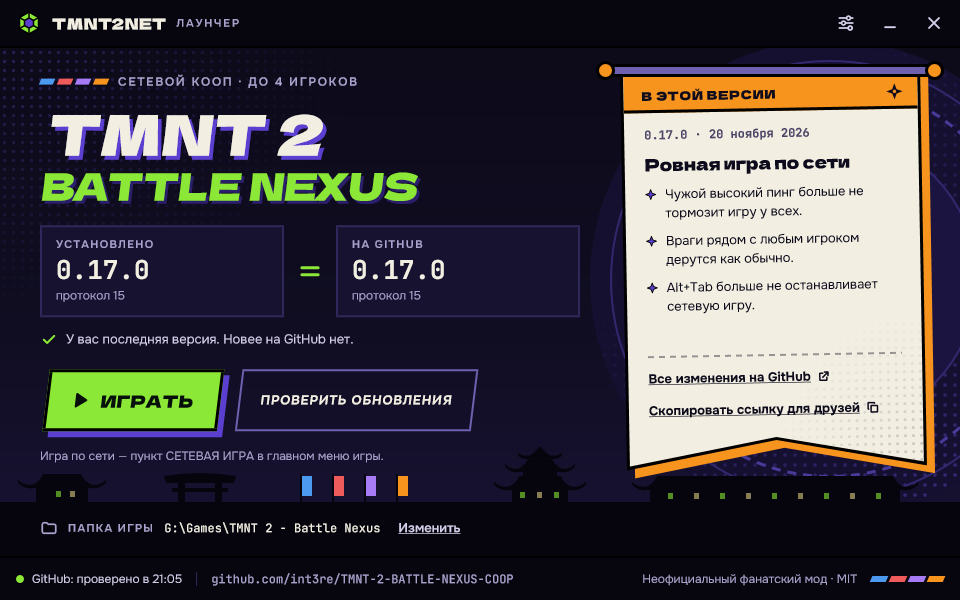
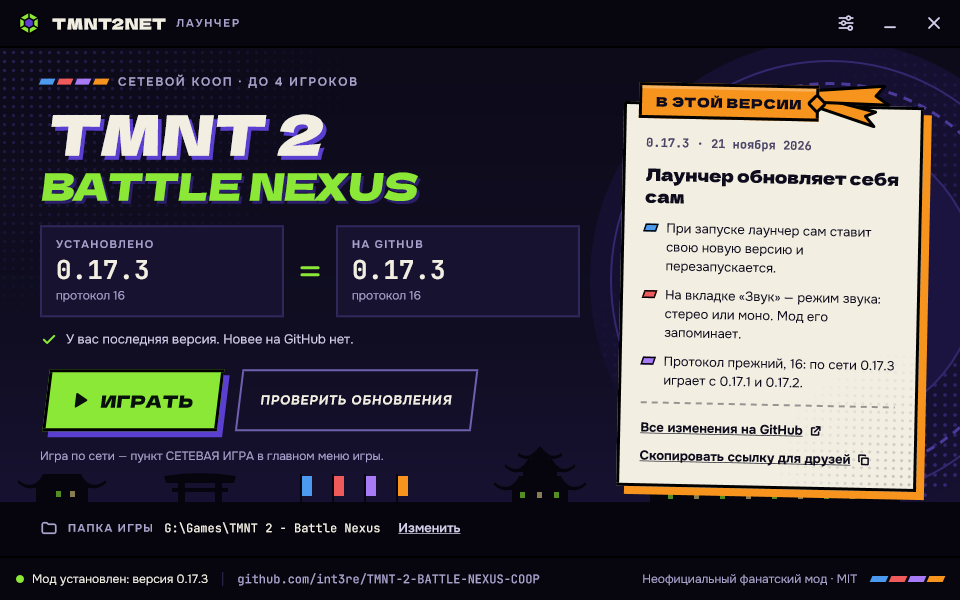
Launcher 1.3.1: the news on a sheet of paper with its heading on a bandana
The hanging banner gives way to the news sheet of the first game's launcher, in this one's colours: paper a
little askew with a shadow in the accent, as tall as what it says; its heading on a bandana tied at the top
edge - a band in the accent (the bandana chosen in the settings), a knot, two loose ends; the notes marked
with strips in the four turtles' colours. The mod inside is the same 0.17.3.

The README's pictures of the launcher are drawn again.

diff --git a/src/launcher/view.cpp b/src/launcher/view.cpp
@@ -1,5 +1,6 @@
 // The launcher's picture: every screen of the design, drawn from the model. Sizes and colours are the
-// design's (a 960 x 600 window: header 48, body 508, footer 44).
+// design's (a 960 x 600 window: header 48, body 508, footer 44). The news sheet with its bandana is the
+// one of the first game's launcher, in this one's colours.
 #include <algorithm>
 #include <cmath>
 
@@ -53,9 +54,9 @@ const char kNunchaku[] = "M5 20l3-9M19 20l-3-9M8 11c0-6 8-6 8 0";
 const char kShellOuter[] = "M14 2l10.4 6v12L14 26 3.6 20V8Z";
 const char kShellInner[] = "M14 8.5l4.8 2.75v5.5L14 19.5l-4.8-2.75v-5.5Z";
 const char kShellLines[] = "M14 8.5V2M18.8 11.25L24.4 8M18.8 16.75L24.4 20M14 19.5V26M9.2 16.75L3.6 20M9.2 11.25L3.6 8";
-// stars: 20 x 20 and 12 x 12
-const char kShuriken[] = "M10 1l2.4 6.6L19 10l-6.6 2.4L10 19l-2.4-6.6L1 10l6.6-2.4Z";
-const char kStar[] = "M6 0.6l1.5 3.9L11.4 6 7.5 7.5 6 11.4 4.5 7.5 0.6 6l3.9-1.5Z";
+// a bandana's two loose ends, in a 56 x 32 box: they fly off to the right of the knot at 2, 12
+const char kBandanaLow[] = "M2 10L44 20l-7 3 6 7L2 17Z";
+const char kBandanaHigh[] = "M2 6l48-4-6 7 9 6L2 14Z";
 // the arena under the window's bottom edge, in a 960 x 110 box
 const char kPavilionRoof[] = "M18 34Q26 41 34 38Q40 35 43 28H81Q84 35 90 38Q98 41 106 34V37Q98 44 90 42H34Q26 44 18 37Z";
 const char kTorii[] = "M164 30Q200 24 236 30L234 37H166Z";
@@ -691,94 +692,103 @@ void downloading(Ctx& x, float top) {
          T(12), left, y, MUTED, note);
 }
 
-void banner(Ctx& x, const Vals& v) {
+// The news: a sheet of paper, a little askew, with its heading on a bandana tied at the sheet's top - the
+// band in the launcher's accent (the bandana the player chose), its two ends flying off to the right. Each
+// note is marked with a strip of a bandana, the four turtles' colours in turn. The sheet is as tall as
+// what it says.
+void paper(Ctx& x, const Vals& v) {
   Canvas& c = x.c;
   const Model& m = x.m;
-  const float L = 620, Tp = 70, R = 920, B = 468;
-  c.push(Matrix::Rotation(-1, D2D1::Point2F((L + R) / 2, Tp)));
-  auto cloth = [](float l, float t, float r, float b, float notch, D2D1_POINT_2F* p) {
-    p[0] = {l, t};
-    p[1] = {r, t};
-    p[2] = {r, b};
-    p[3] = {(l + r) / 2, b - notch};
-    p[4] = {l, b};
-  };
-  D2D1_POINT_2F p[5];
-  cloth(L + 8, Tp + 8, R + 8, B + 8, 28, p);
-  c.poly(p, 5, x.accent);
-  cloth(L, Tp, R, B, 28, p);
-  c.poly(p, 5, BLACK);
-  const float l = L + 3, t = Tp + 3, r = R - 3, b = B - 4;
-  cloth(l, t, r, b, 27, p);
-  c.poly(p, 5, PAPER);
-  c.clip_poly(p, 5);
-  for (int j = 0; j < 19; ++j)
-    for (int i = 0; i < 19; ++i) {
-      float px = r - 150 + 4 + 8 * i, py = b - 150 + 4 + 8 * j;
-      float d = std::sqrt((r - px) * (r - px) + (b - py) * (b - py)) / 212.0f;
-      float a = clamp01(1 - d / 0.72f);
-      if (a > 0.01f) c.ellipse(px, py, 1.6f, 1.6f, PINK, 0.2f * a);
-    }
-  c.fill(l, t, r - l, 38, x.accent);
-  c.fill(l, t + 35, r - l, 3, BLACK);
-  c.unclip();
-  c.text_mid(v.tab, D(12, 0.06f), l + 18, t + 6 + (35 - 6) / 2.0f, PINK);
-  c.icon(kShuriken, r - 14 - 18, t + 6 + (35 - 6) / 2.0f - 9, 18, PINK, 0, 20, true);
-  c.ellipse(r - 14 - 9, t + 6 + (35 - 6) / 2.0f, 1.8f, 1.8f, x.accent);
-  // the words
-  const float tx = l + 20, tw = (r - l) - 40;
-  float y = t + 38 + 14;
-  y += c.text(v.meta, Mo(12, 700), tx, y, 0x4A4466) + 10;
+  const float L = 620, W = 300, top = 48 + 26 + 30, limit = kH - 44 - 22;  // the sheet; its bottom goes no lower
+  const float tx = L + 3 + 20, tw = W - 2 * (3 + 20);
+  Font meta_f = Mo(12, 700), title_f = D(17), item_f = T(13), link_f = T(13, 700);
   TextOpt head;
   head.wrap = true;
   head.max_w = tw;
   head.line_h = 17 * 1.3f;
-  y += c.text(v.title, D(17), tx, y, PINK, head) + 10;
-  const float bottom = b - 40;
-  const float links_h = 2.0f + 6 + 30 + (v.copy ? 2.0f + 30 : 0.0f);
+  const float mark_w = 13, mark_gap = 9;
   TextOpt item;
   item.wrap = true;
-  item.max_w = tw - 11 - 9;
+  item.max_w = tw - mark_w - mark_gap;
   item.line_h = 13 * 1.45f;
-  for (const std::wstring& s : v.items) {
-    float h = c.measure(s, T(13), item).height;
-    if (y + h > bottom - links_h - 6) break;  // (a long list: what does not fit is on GitHub)
-    c.icon(kStar, tx, y + 4, 11, VIOLET, 0, 12, true);
-    c.push(Matrix::Scale(11.0f / 12, 11.0f / 12) * Matrix::Translation(tx, y + 4));
-    c.stroke_path(kStar, 1, BLACK);
-    c.pop();
-    c.text(s, T(13), tx + 11 + 9, y, PINK, item);
-    y += h + 9;
+  // how much of the list there is room for (a long list: what does not fit is on GitHub)
+  const float below = 12 + 2 + 10 + 28 + (v.copy ? 28.0f : 0.0f) + 14 + 3;  // the line, the links, the edge
+  float h = 3 + 30 + c.line_h(meta_f) + 12 + c.measure(v.title, title_f, head).height + 12;
+  size_t shown = 0;
+  for (; shown < v.items.size(); ++shown) {
+    const float ih = c.measure(v.items[shown], item_f, item).height + (shown ? 10.0f : 0.0f);
+    if (top + h + ih + below > limit) break;
+    h += ih;
   }
-  // the links, at the bottom
-  float ly = bottom - links_h;
-  c.dashed_h(tx, ly, tw, 2, 6, 5, PINK, 0.4f);
-  ly += 2 + 6;
-  Font lf = T(13, 700);
+  h += below;
+
+  c.push(Matrix::Rotation(1.2f, D2D1::Point2F(L + W / 2, top + h / 2)));
+  c.fill(L + 8, top + 8, W, h, x.accent);
+  c.box(L, top, W, h, PAPER, 3, BLACK);
+  // dots thickening to the sheet's lower right corner
+  const float r = L + W - 3, b = top + h - 3;
+  for (int j = 0; j < 17; ++j)
+    for (int i = 0; i < 17; ++i) {
+      const float px = r - 136 + 4 + 8 * i, py = b - 136 + 4 + 8 * j;
+      if (py < top + 6) continue;
+      const float d = std::sqrt((r - px) * (r - px) + (b - py) * (b - py)) / 198.0f;
+      const float al = clamp01(1 - d / 0.72f);
+      if (al > 0.01f) c.ellipse(px, py, 1.6f, 1.6f, PINK, 0.22f * al);
+    }
+  // the words
+  float y = top + 3 + 30;
+  y += c.text(v.meta, meta_f, tx, y, 0x4A4466) + 12;
+  y += c.text(v.title, title_f, tx, y, PINK, head) + 12;
+  for (size_t i = 0; i < shown; ++i) {
+    if (i) y += 10;
+    c.push(Matrix::Skew(-18, 0, D2D1::Point2F(tx + mark_w / 2, y + 9)));
+    c.box(tx, y + 5, mark_w, 8, kBandana[i & 3], 1.5f, BLACK);
+    c.pop();
+    y += c.text(v.items[i], item_f, tx + mark_w + mark_gap, y, PINK, item);
+  }
+  y += 12;
+  c.dashed_h(tx, y, tw, 2, 6, 5, PINK, 0.4f);
+  y += 2 + 10;
+  // the links
   TextOpt under;
   under.underline = true;
-  float lw = c.measure(v.link, lf).width;
+  float lw = c.measure(v.link, link_f).width;
   bool hover = m.hover == H_PaperLink;
-  c.text_mid(v.link, lf, tx, ly + 15, hover ? VIOLET : PINK, under);
-  c.icon(kExternal, tx + lw + 6, ly + 8, 14, hover ? VIOLET : PINK, 2.6f);
-  hit(x, H_PaperLink, tx, ly, lw + 6 + 14, 30);
+  c.text_mid(v.link, link_f, tx, y + 14, hover ? VIOLET : PINK, under);
+  c.icon(kExternal, tx + lw + 6, y + 7, 14, hover ? VIOLET : PINK, 2.6f);
+  hit(x, H_PaperLink, tx, y, lw + 6 + 14, 28);
   if (v.copy) {
-    ly += 30 + 2;
-    bool copied = m.copied_until != 0;
+    y += 28;
+    const bool copied = m.copied_until != 0;
     const wchar_t* label = copied ? L"Ссылка скопирована" : L"Скопировать ссылку для друзей";
-    float cw = c.measure(label, lf).width;
+    const float cw = c.measure(label, link_f).width;
     hover = m.hover == H_Copy;
-    c.text_mid(label, lf, tx, ly + 15, hover ? VIOLET : PINK, under);
-    c.icon(copied ? kCheck : kCopy, tx + cw + 6, ly + 8, 14, hover ? VIOLET : PINK, 2.6f);
-    hit(x, H_Copy, tx, ly, cw + 6 + 14, 30);
+    c.text_mid(label, link_f, tx, y + 14, hover ? VIOLET : PINK, under);
+    c.icon(copied ? kCheck : kCopy, tx + cw + 6, y + 7, 14, hover ? VIOLET : PINK, 2.6f);
+    hit(x, H_Copy, tx, y, cw + 6 + 14, 28);
   }
+  // the bandana: the band with the heading sits on the sheet's top edge, the knot at its right end, the
+  // two loose ends beyond it
+  Font tab_f = D(13, 0.06f);
+  const float lh = c.line_h(tab_f);
+  const float bw = 3 + 14 + c.measure(v.tab, tab_f).width + 14 + 3, bh = 3 + 6 + lh + 5 + 3;
+  const float bx = L + 3 + 12, by = top + 3 - bh * 0.62f;
+  const float ends = 1.45f;  // (the ends as drawn for a band of 32: larger here, they are what the eye goes to)
+  c.push(Matrix::Scale(ends, ends) * Matrix::Translation(bx + bw - 7, by + bh / 2 - 15 * ends));
+  c.fill_path(kBandanaLow, x.accent);
+  c.stroke_path(kBandanaLow, 2.5f / ends * 1.2f, BLACK);
+  c.fill_path(kBandanaHigh, x.accent);
+  c.stroke_path(kBandanaHigh, 2.5f / ends * 1.2f, BLACK);
   c.pop();
-  // the rod it hangs from
-  c.box(L - 14, 64, (R - L) + 28, 13, EDGE, 3, BLACK);
-  for (float kx : {L - 24 + 9.5f, R + 24 - 9.5f}) {
-    c.ellipse(kx, 70.5f, 9.5f, 9.5f, BLACK);
-    c.ellipse(kx, 70.5f, 6.5f, 6.5f, x.accent);
-  }
+  c.box(bx, by, bw, bh, x.accent, 3, BLACK);
+  c.fill(bx + 3, by + 3, bw - 6, 3, 0xFFFFFF, 0.28f);  // (the cloth's sheen along its upper edge)
+  c.text_mid(v.tab, tab_f, bx + 3 + 14, by + 3 + 6 + lh / 2, PINK);
+  // the knot
+  const float kx = bx + bw - 2, ky = by + bh / 2;
+  c.push(Matrix::Rotation(45, D2D1::Point2F(kx, ky)));
+  c.round_box(kx - 7.5f, ky - 7.5f, 15, 15, 3, x.accent, 3, BLACK);
+  c.pop();
+  c.pop();
 }
 
 void hero(Ctx& x, const Vals& v) {
@@ -877,7 +887,7 @@ void hero(Ctx& x, const Vals& v) {
   c.text_mid(L"Изменить", cf, px + 8, cy, m.hover == H_Folder ? PAPER : TEXT2, under);
   hit(x, H_Folder, px, cy - 22, cw, 44);
 
-  banner(x, v);
+  paper(x, v);
 }
 
 // --- settings --------------------------------------------------------------------------------

diff --git a/src/launcher/launcher.h b/src/launcher/launcher.h
@@ -21,7 +21,7 @@
 namespace lz {
 
 constexpr int kW = 960, kH = 600;  // the window, in units of 1/96 inch
-constexpr wchar_t kLauncherVersion[] = L"1.3.0";
+constexpr wchar_t kLauncherVersion[] = L"1.3.1";
 constexpr wchar_t kRepoUrl[] = L"https://github.com/int3re/TMNT-2-BATTLE-NEXUS-COOP";
 constexpr wchar_t kRepoText[] = L"github.com/int3re/TMNT-2-BATTLE-NEXUS-COOP";
 

diff --git a/docs/LAUNCHER.md b/docs/LAUNCHER.md
@@ -72,7 +72,7 @@ SHA-256, ставит на своё место и перезапускается
 нельзя менять, — лаунчер пишет об этом одной строкой внизу и работает как раньше. Выключается в настройках:
 «Обновлять лаунчер при запуске»; тогда о новом лаунчере скажет ссылка в строке состояния.
 
-Справа на знамени — что нового в версии. Под ним две ссылки: все изменения на GitHub и **«Скопировать
+Справа на листе с повязкой — что нового в версии. Внизу листа две ссылки: все изменения на GitHub и **«Скопировать
 ссылку для друзей»** — ссылка на последний релиз, которую можно отправить команде.
 
 Пока игра открыта, файлы мода заменить нельзя. Лаунчер ждёт: закройте игру сами или нажмите **ЗАКРЫТЬ ИГРУ
@@ -217,7 +217,7 @@ tmnt2net-launcher.exe /uninstall "C:\Games\TMNT 2 - Battle Nexus" /quiet
 tmnt2net-package 1
 version 0.17.3
 protocol 16
-launcher 1.3.0
+launcher 1.3.1
 file winmm.dll 301 loader
 file tmnt2net.asi 302
 file steam_api.dll 303
@@ -241,14 +241,14 @@ file tmnt2net-README.md 305
   "date": "2026-11-21",
   "title": "Лаунчер обновляет себя сам",
   "notes": ["…", "…"],
-  "launcher": {"name": "tmnt2net-launcher.exe", "size": 5864960, "sha256": "…", "version": "1.3.0"},
+  "launcher": {"name": "tmnt2net-launcher.exe", "size": 5864960, "sha256": "…", "version": "1.3.1"},
   "setup": {"name": "tmnt2net-launcher.exe", "size": 5864960, "sha256": "…"},
   "protocols": {"0.17.3": 16, "0.17.2": 16, "0.17.1": 16, "0.17.0": 15}
 }
 ```
 
 Файл делает `tools/release_manifest.py` из `dist/release.json` (версия, протокол, дата, заголовок и до
-четырёх коротких заметок для знамени) и готового `tmnt2net-launcher.exe`. Поле `setup` повторяет тот же
+четырёх коротких заметок для листа новостей) и готового `tmnt2net-launcher.exe`. Поле `setup` повторяет тот же
 файл для лаунчера 1.0.0: он запускал скачанное как установщик, и новый лаунчер это умеет.
 
 У релиза без этого файла лаунчер узнаёт только номер версии — по тому, куда ведёт `…/releases/latest`, —

diff --git a/docs/TZ.md b/docs/TZ.md
@@ -669,6 +669,14 @@ ENet в окне 640×360: круг слева вверху, таблички P1
   ИГРАТЬ. Неудача — строка внизу, без экрана ошибки; версия, которую не удалось поставить на своё место,
   запоминается (`self_skip`) и сама больше не скачивается.
 
+- Новости на листе с повязкой (лаунчер 1.3.1; просьба со снимком макета лаунчера первой части: «мне нравится, как
+  сделаны здесь объявления, сделай так же, с фокусом на банданы»). Вместо знамени на перекладине — лист бумаги
+  из того макета: поворот 1,2°, рамка 3, тень 8 x 8 цветом акцента, точки в правом нижнем углу, пунктир над
+  ссылками, высота по содержимому. Заголовок («ЧТО НОВОГО», «В ЭТОЙ ВЕРСИИ» и т. д.) — на повязке у верхнего края:
+  полоса цвета акцента, то есть выбранной в настройках повязки, узел и два конца (контуры концов — из макета,
+  увеличены). «Фокус на банданы»: повязка крупнее, чем в макете первой части, с узлом и бликом, а заметки
+  помечены полосками цветов четырёх повязок по очереди вместо одинаковых зелёных квадратов.
+
 ---
 
 ## 7. Настройки `tmnt2net.ini` (этап 0; дальше дополняется)

diff --git a/README.md b/README.md
@@ -7,7 +7,7 @@
 
 <p align="center">
   <img alt="версия 0.17.3" src="https://img.shields.io/badge/версия-0.17.3-2ea44f">
-  <img alt="лаунчер 1.3.0" src="https://img.shields.io/badge/лаунчер-1.3.0-8BE836">
+  <img alt="лаунчер 1.3.1" src="https://img.shields.io/badge/лаунчер-1.3.1-8BE836">
   <img alt="Windows 10/11" src="https://img.shields.io/badge/Windows-10%20%2F%2011-0078d4">
   <img alt="1–4 игрока" src="https://img.shields.io/badge/игроков-1–4-f59e0b">
   <img alt="Steam, LAN, IP" src="https://img.shields.io/badge/сеть-Steam%20·%20LAN%20·%20IP-1b2838">
@@ -284,7 +284,7 @@ Steam должен быть запущен, игроки — друзья в Ste
 
 ## Версии и совместимость
 
-Текущая версия мода — **0.17.3**, лаунчера — **1.3.0**. Версия мода видна под главным меню игры и в лаунчере.
+Текущая версия мода — **0.17.3**, лаунчера — **1.3.1**. Версия мода видна под главным меню игры и в лаунчере.
 
 В сетевой игре у всех должна быть совместимая версия мода: игра на всех ПК обязана идти одинаково, поэтому
 любое изменение в её ходе меняет и версию протокола. Хост сам откажет игроку с несовместимой версией и

diff --git a/docs/CHANGELOG.md b/docs/CHANGELOG.md
@@ -45,6 +45,12 @@
 
 У лаунчера свои версии: он обновляется отдельно от мода.
 
+### 1.3.1 — 21 ноября 2026
+- **Новости — на листе с повязкой**, как в лаунчере первой части: лист бумаги чуть наискось, заголовок — на
+  повязке с узлом и двумя концами, цвета выбранной в настройках повязки. Заметки помечены полосками цветов
+  четырёх черепах. Лист такой высоты, сколько на нём написано. Прежнего знамени на перекладине больше нет.
+- Внутри тот же мод 0.17.3.
+
 ### 1.3.0 — 21 ноября 2026
 - **Лаунчер обновляет себя при запуске.** Если на GitHub вышел лаунчер новее, он скачивается, сверяется по
   SHA-256, встаёт на место прежнего и запускается сам. Мод в папке игры при этом не меняется: новая версия

diff --git a/README.en.md b/README.en.md
@@ -7,7 +7,7 @@
 
 <p align="center">
   <img alt="version 0.17.3" src="https://img.shields.io/badge/version-0.17.3-2ea44f">
-  <img alt="launcher 1.3.0" src="https://img.shields.io/badge/launcher-1.3.0-8BE836">
+  <img alt="launcher 1.3.1" src="https://img.shields.io/badge/launcher-1.3.1-8BE836">
   <img alt="Windows 10/11" src="https://img.shields.io/badge/Windows-10%20%2F%2011-0078d4">
   <img alt="1–4 players" src="https://img.shields.io/badge/players-1–4-f59e0b">
   <img alt="Steam, LAN, IP" src="https://img.shields.io/badge/network-Steam%20·%20LAN%20·%20IP-1b2838">
